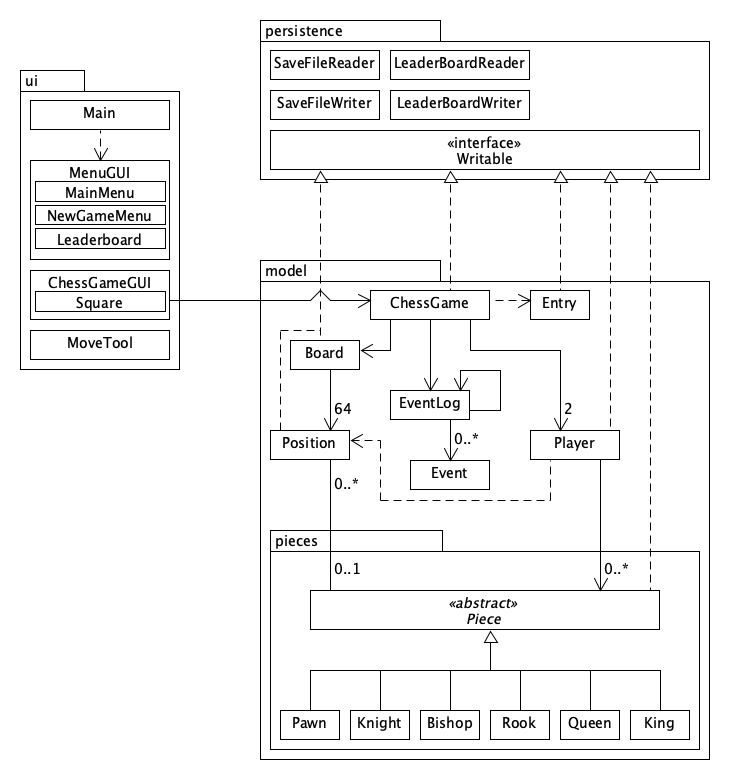
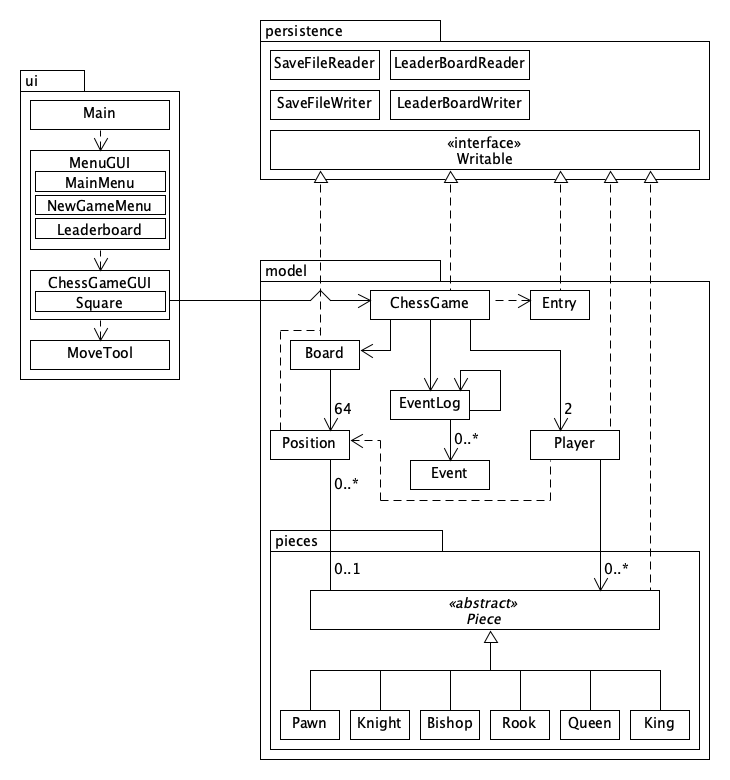
Phase 4: Task 3

Changed region(s): [[0.0301, 0.1846, 0.2411, 0.3385], [0.0904, 0.4, 0.1808, 0.4615]]

diff --git a/README.md b/README.md
@@ -62,4 +62,6 @@ Bar moved d8 to d5; captured piece (added to their capturedPieces) </br>
   since I had to implement toJSON separately anyway, and Writable is never passed as a parameter.
 - My exceptions are currently in two separate packages within model and ui, I would move them into
   one package in the root folder, and split them inside instead.
-- There is some inconsistency with the naming of leaderboard-related things (Leaderboard/LeaderBoard)
+- There is some inconsistency with the naming of leaderboard-related things (Leaderboard/LeaderBoard).
+- After implementing the GUI, MoveTool no longer involved any direct user input, 
+  so it could have been moved to the model package.
